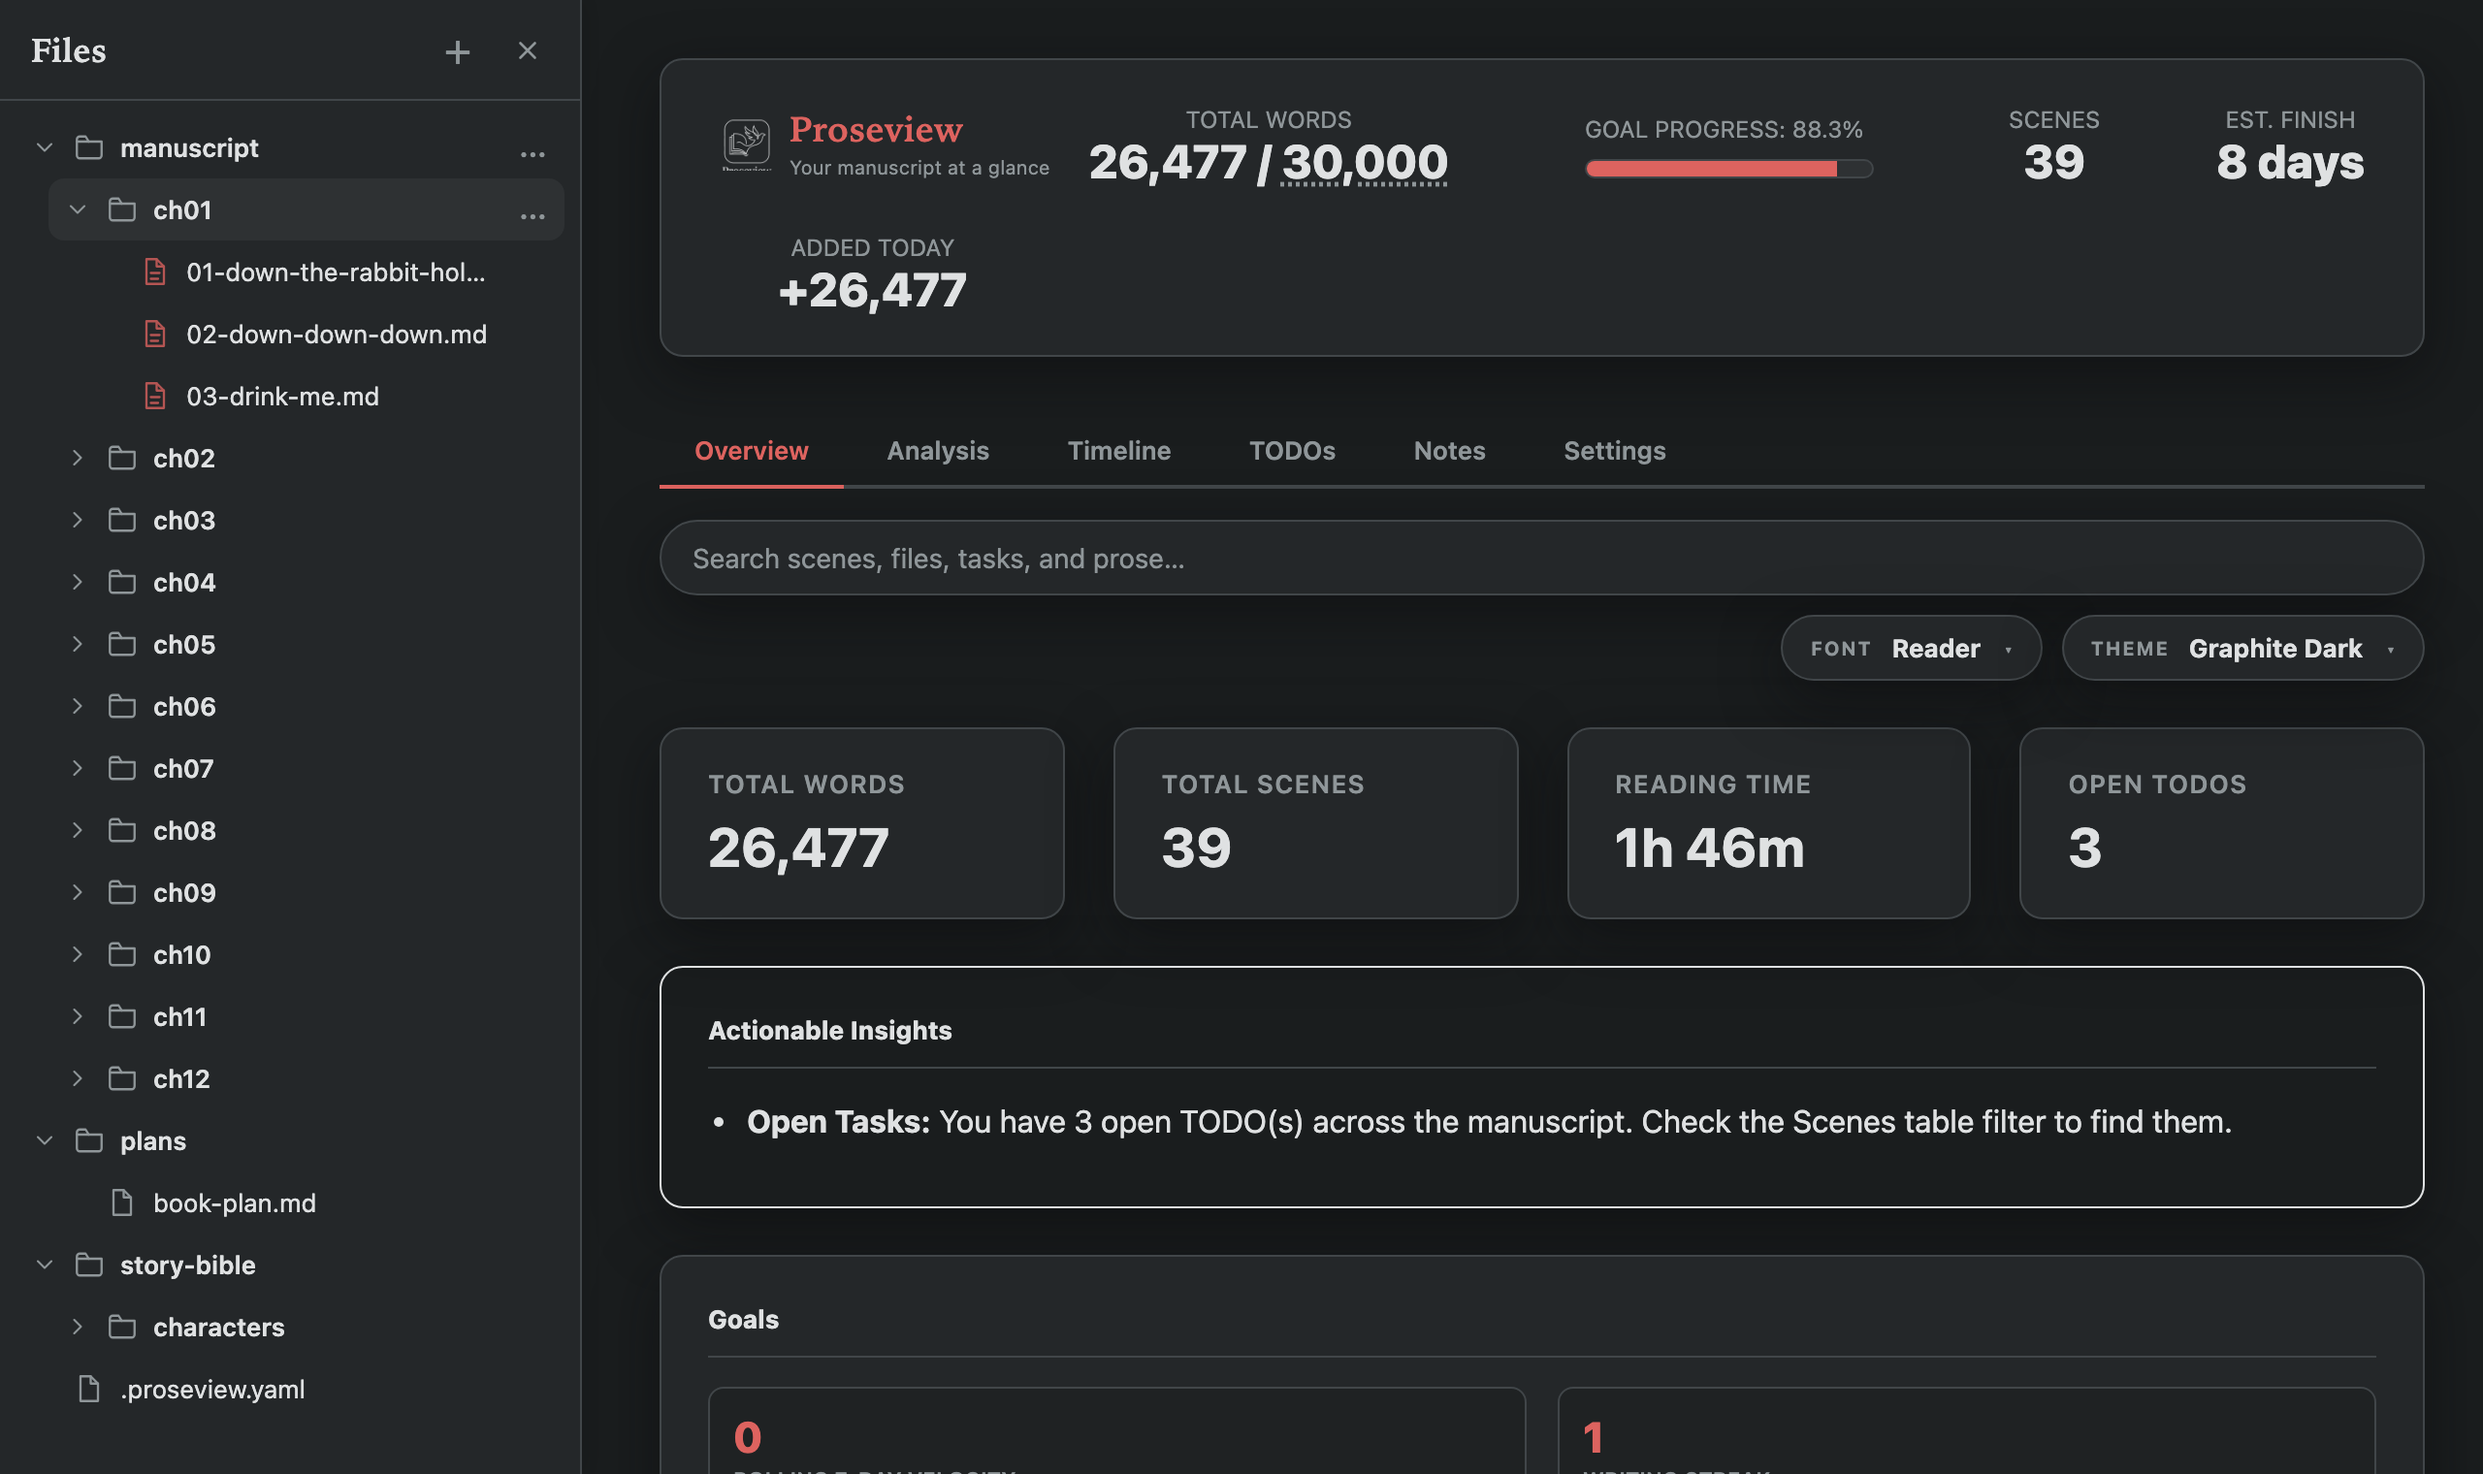
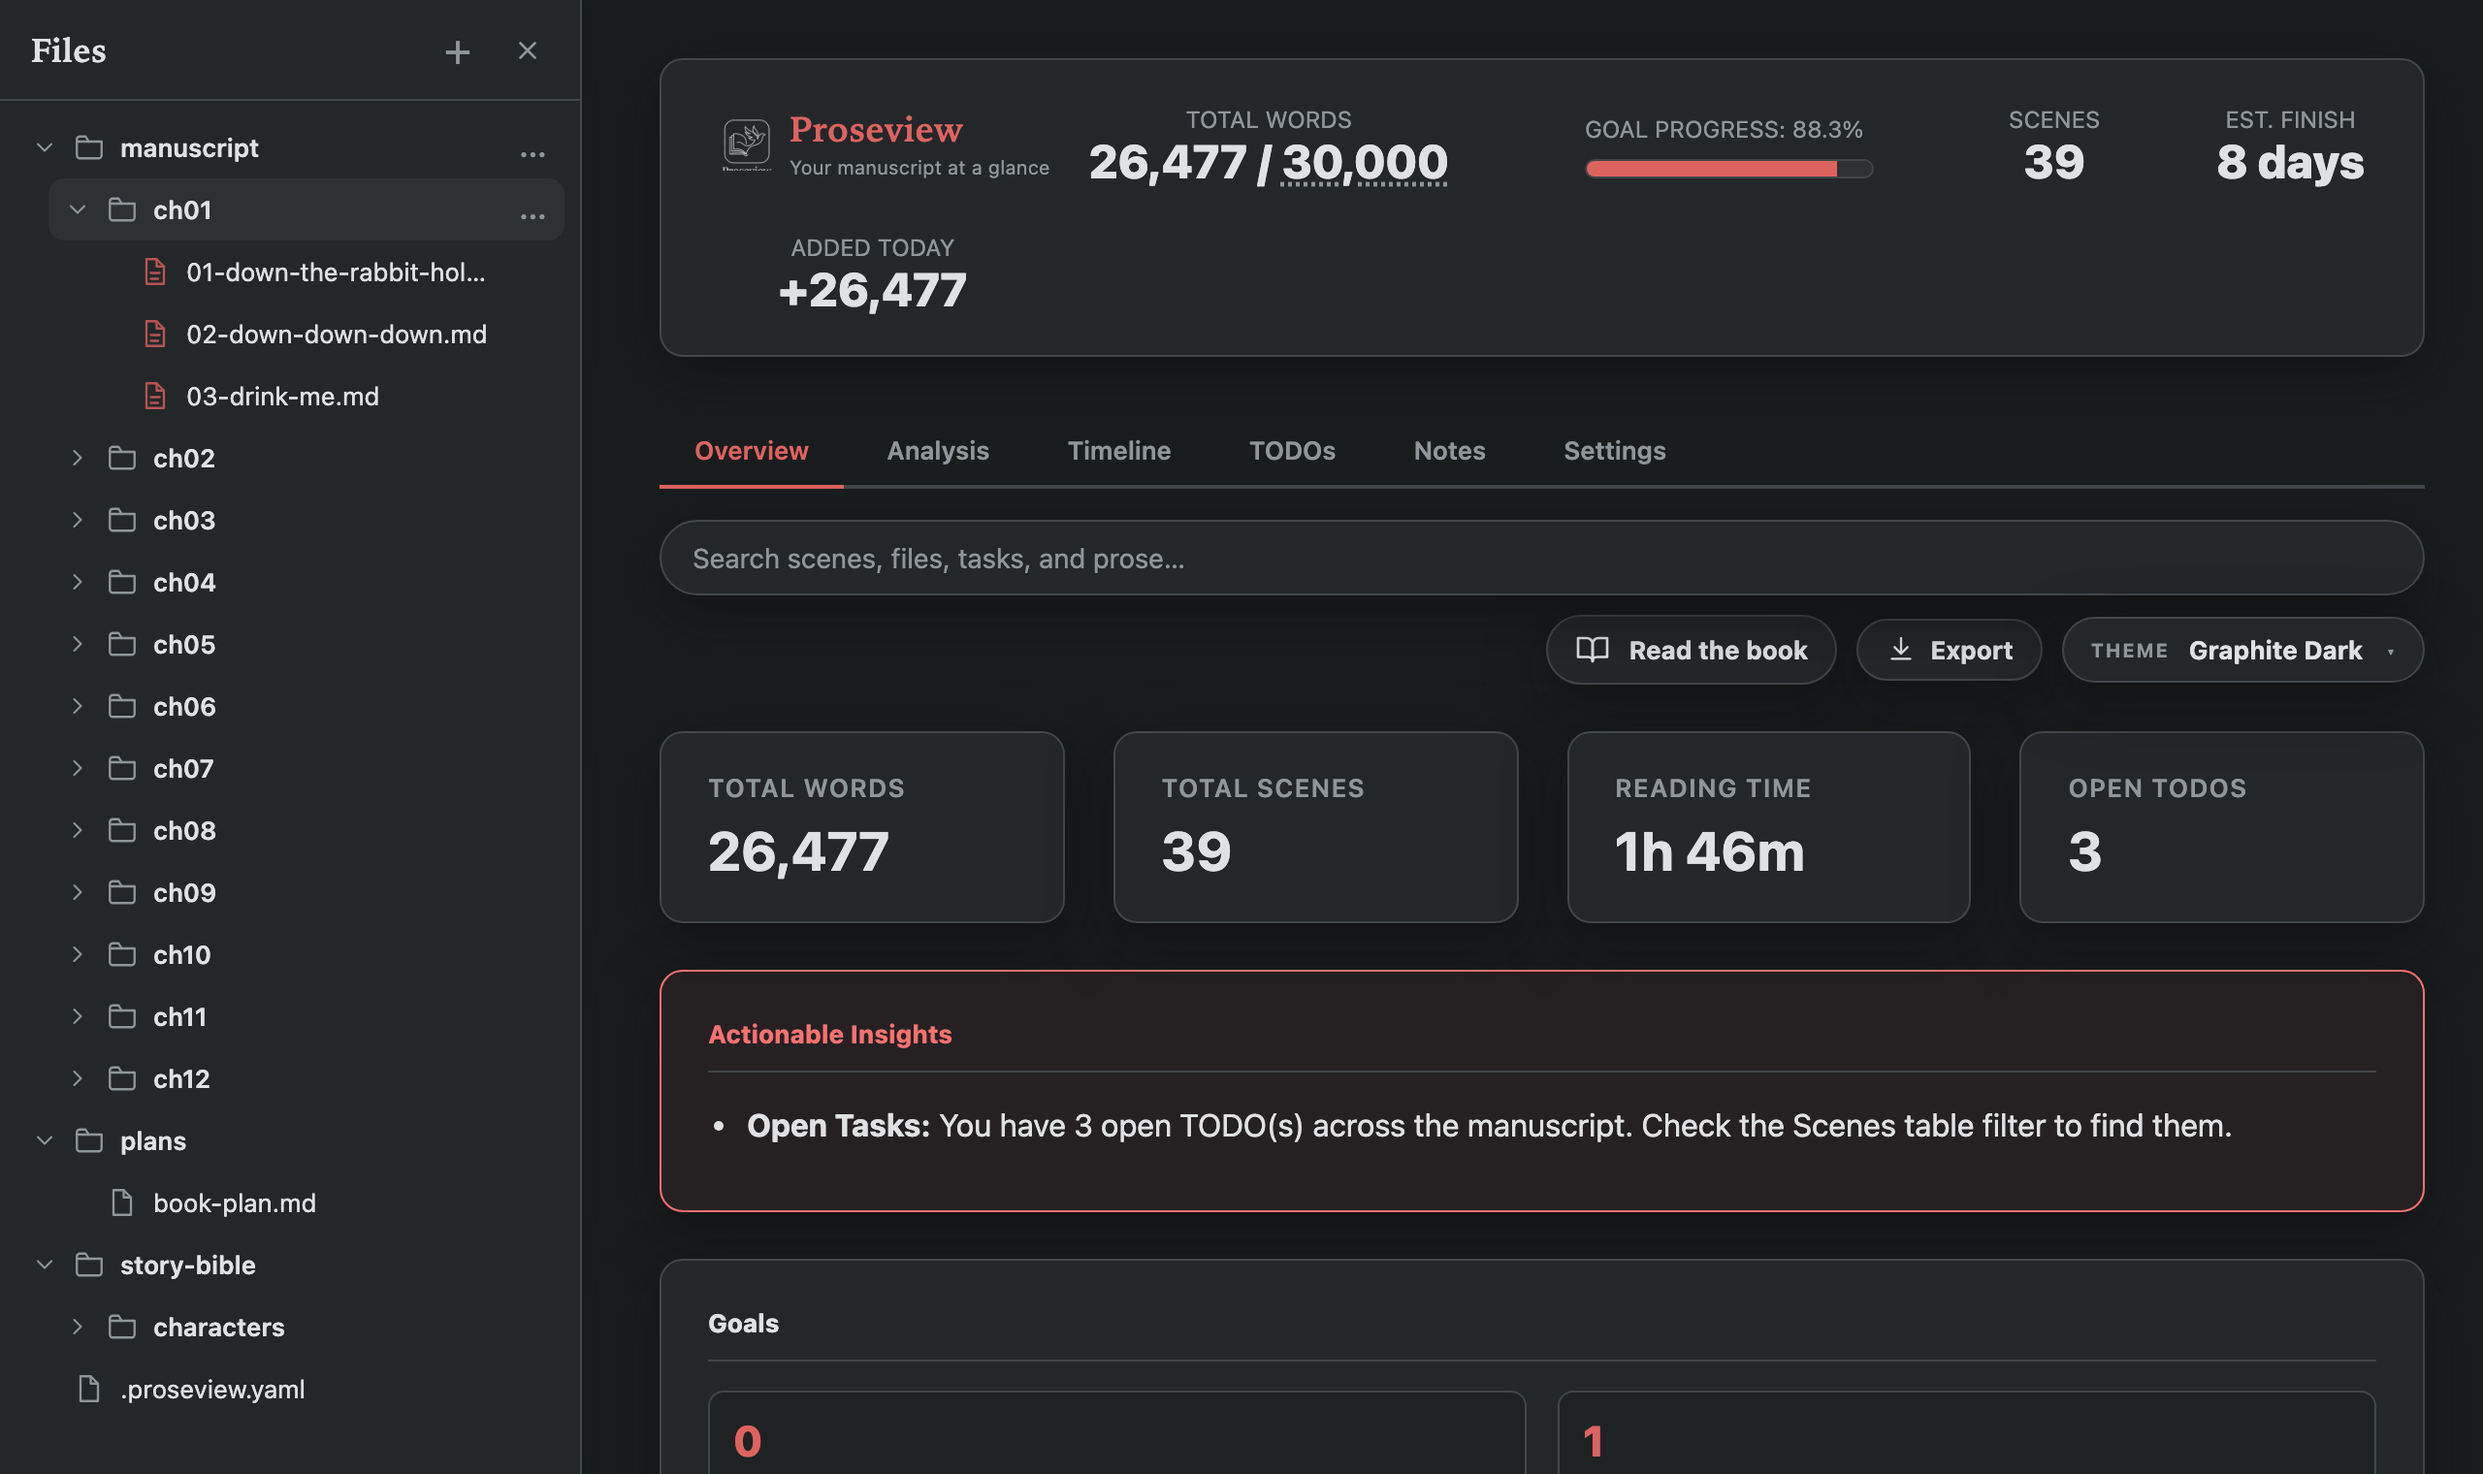
Bring the README and AI guide up to date, and re-record the README images

diff --git a/scripts/record_demo_clips.py b/scripts/record_demo_clips.py
@@ -348,7 +348,7 @@ def main(argv: list[str]) -> int:
 
 
 # ── Stills ──────────────────────────────────────────────────────────────────
-# The two PNGs in the README. Same demo book, same theme as the clips, so the
+# The PNGs in the README. Same demo book, same theme as the clips, so the
 # gallery reads as one product rather than three eras of it.
 
 def shot_dashboard(page, base, docs):
@@ -373,9 +373,18 @@ def shot_analytics(page, base, docs):
     page.wait_for_timeout(2600)
 
 
+def shot_book(page, base, docs):
+    # The intro note shows the first few times; a still should show the book.
+    page.add_init_script("localStorage.setItem('proseview-book-intro-seen','3')")
+    page.goto(f"{base}#/book", wait_until="load")
+    page.wait_for_function("() => document.documentElement.dataset.view === 'book'")
+    page.wait_for_timeout(1500)
+
+
 SHOTS = {
     "dashboard": shot_dashboard,
     "analytics": shot_analytics,
+    "read-the-book": shot_book,
 }
 
 

diff --git a/README.md b/README.md
@@ -8,19 +8,21 @@ analysis, edit a scene, and export the book as an EPUB or a PDF. Nothing to
 install, and your edits never leave the tab.
 
 Proseview turns a folder of Markdown scenes into a place to write the book:
-read and edit scenes and story-bible notes on a typeset page, check pacing,
-prose and character presence, ask Codex or Claude about the manuscript, and
-export it as an e-book or a print-ready PDF. Your files stay plain Markdown,
-and a save changes only what you edited.
+read and edit scenes and the rest of your Markdown files on a typeset page,
+read the whole book from start to finish, check pacing, prose and character
+presence, ask Codex or Claude about the manuscript, and export it as an
+e-book or a print-ready PDF. Your files stay plain Markdown, and a save
+changes only what you edited.
 
 Core analysis stays on your machine: no account, subscription, database, or
 telemetry. AI features are opt-in and run through agent CLIs you installed and
-logged into yourself — Codex or Claude in the side dock. When you use one,
-Proseview sends the active document by default, plus any selection or
-attachments, to that agent under its own login and data handling.
+logged into yourself — Codex or Claude in the side dock. When you ask one,
+Proseview sends your question, which file is open, and any selection or
+`@`mentioned paths to that agent, which reads what it needs from your project
+under its own login and data handling.
 
-Proseview reads plain `.md` files in whatever layout they already have, so it
-sits alongside Obsidian, Vim, or any other Markdown editor.
+Your files stay where they are, as plain `.md`, so Proseview sits alongside
+Obsidian, Vim, or any other Markdown editor.
 
 ```bash
 pipx install "proseview[claude]"
@@ -35,7 +37,7 @@ Leave off `[claude]` if you will not use the Claude tab. [Quick start →](#-qui
 ![platform](https://img.shields.io/badge/platform-macOS%20%7C%20Linux%20%7C%20Windows-lightgrey)
 ![license](https://img.shields.io/badge/license-MIT-green)
 
-![The Proseview dashboard with the file sidebar open on chapter one's scenes: total words against the goal, scene count, reading time, and a Goals panel with writing streak and per-chapter average](https://raw.githubusercontent.com/ourarash/proseview/main/docs/images/dashboard.png)
+![The Proseview dashboard with the file sidebar open on chapter one's scenes: total words against the goal, scene count, reading time, the Read the book and Export buttons, and a Goals panel with writing streak and per-chapter average](https://raw.githubusercontent.com/ourarash/proseview/main/docs/images/dashboard.png)
 
 ## ✨ What it does
 
@@ -45,9 +47,13 @@ Leave off `[claude]` if you will not use the Claude tab. [Quick start →](#-qui
   `Edit` toggled on. `Mod-S` saves and returns to reading; a conflict guard checks the file mtime
   so a change made in your own editor is never silently overwritten. A save
   rewrites only the paragraphs you changed.
-- 📝 **Editable notes.** Story bible, plans, and any other Markdown file in
-  the book get the same `Edit` and `Save`, with backups and the same
-  conflict guard. Notes with HTML inside their lines are edited as plain Markdown.
+- 📚 **Read the book.** The whole manuscript as one continuous text, the way
+  an e-reader shows it, with a progress bar, chapter list, scene and chapter
+  skips, and `Edit` beside each scene. It reopens where you stopped.
+- 📝 **Every Markdown file editable.** Story bible, plans, and any other
+  Markdown file in the book get the same `Edit` and `Save`, with backups and
+  the same conflict guard. Files with HTML inside their lines are edited as
+  plain Markdown.
 - 📁 **File browser.** Create empty Markdown files and folders, rename them
   inline, or move them to Proseview Trash from the row menu or right-click.
 - 🔎 **Repository search.** `Mod-K` from anywhere — paths, metadata, TODOs,
@@ -94,13 +100,17 @@ your machine, under your login: Codex and Claude, one tab each in the side
 dock, each with its own project conversation. Both run at once; switching tabs
 or opening another file never interrupts either one.
 
-Agent sessions are read-only. Reading needs no answer; a shell command that
-could change something stops at an approval you have to grant, and the
-agent's file edits come back for review after the turn, a change at a time.
-Raw model reasoning is never forwarded to the browser.
+They work as they do in the VS Code extensions. Each question says which file
+is open, plus your selection and any files you `@`mention, and the agent reads
+the rest of the project itself. Claude loads your own Claude settings
+(permission rules, `CLAUDE.md`, skills, MCP servers) and asks in the panel
+wherever the Claude Code extension would ask; Codex asks before a command that
+would change something. Raw model reasoning is never forwarded to the browser.
 
-Continuity and canon questions come back with citations, and suggested edits
-arrive as proposals you accept or reject before anything is written.
+An edit the agent makes is saved, and a small card after the turn shows the
+file and how many changes it made, with Expand view to see the diff, Undo all,
+and Looks good. Reading passes such as Quick critique make no edits, and
+continuity and canon questions come back with citations.
 
 Everything else works without an agent installed. For the Claude tab, install
 Proseview with its `claude` extra (`pipx install "proseview[claude]"`, or
@@ -135,11 +145,23 @@ callouts and embeds elsewhere in the file stay exactly as written.
 
 ![Typing a new closing line into a scene and saving it with Mod-S, with the word count updating](https://raw.githubusercontent.com/ourarash/proseview/main/docs/images/demo-writing.gif)
 
+### Read the book
+
+**Read the book** on the dashboard shows the whole manuscript as one
+continuous text, every scene in order under its chapter's heading. A quiet bar
+at the bottom shows how far through you are, skips by scene or chapter (the
+arrow keys do too) and opens a chapter list; `Aa` sets the text size, line
+width, font and theme. `Edit` beside a scene (or `E`) opens it in the editor,
+and leaving brings you back to the same place in the book.
+
+![Read the book: the opening of the demo manuscript as one continuous text, with the progress and chapter bar along the bottom](https://raw.githubusercontent.com/ourarash/proseview/main/docs/images/read-the-book.png)
+
 ### Agent tabs
 
 Codex and Claude each get a tab and a separate project conversation. Opening
-another file does not replace either conversation or silently send that file
-to the agent. Attach the current file when you want it included.
+another file does not replace either conversation; the next question simply
+tells the agent which file you are in now, and the agent reads it from the
+project. Type `@` to point at other files.
 
 ![The Codex and Claude tabs answering the same question about a scene in separate conversations, with each answer staying in its own tab](https://raw.githubusercontent.com/ourarash/proseview/main/docs/images/demo-agents.gif)
 
@@ -255,8 +277,9 @@ discuss:
 
 Proseview is alpha. Everything described above works today. Still unfinished:
 
-- 🚧 Skills on the Claude tab. Codex discovers them today; Claude's picker
-  is still empty.
+- 🚧 The `$` skill picker on the Claude tab. Claude uses your Claude skills
+  on its own, but the picker lists only Codex's today.
+- 🚧 Read the book does not yet update live when a scene changes on disk.
 
 See [plans/roadmap.md](plans/roadmap.md) for the full punch list.
 

diff --git a/docs/ai.md b/docs/ai.md
@@ -12,8 +12,10 @@ Three places where AI shows up, all opt-in:
    appears includes `Add TODO`, `Add Note`, and (if an agent is installed
    locally) `Ask about selection` and `Skills`. Skills are
    reusable prompts you keep in `.proseview/skills/<name>/SKILL.md`; they show up
-   automatically in the menu. Skills are discovered by Codex today — the
-   Claude tab's picker is still empty.
+   automatically in the menu. In the question box, `$` picks one of the
+   skills Codex offers for the project; on the Claude tab that picker is
+   still empty, though Claude uses the skills in your Claude settings on its
+   own.
 2. **Discuss, on either agent.** The side dock has a **Codex** tab and a
    **Claude** tab. Each has a separate project conversation, with its own queue,
    history, and approvals — ask one, switch agents or open another file, and
@@ -21,16 +23,20 @@ Three places where AI shows up, all opt-in:
    are always there, and one that cannot start explains why rather than
    disappearing.
 
-   Ordinary questions start without any file contents attached. Choose
-   **Attach current** to include the file on screen, or press `@` to attach
-   other files and folders. An attached current-file chip stays on that file
-   when you navigate, until you remove it; navigation alone never changes what
-   is sent. Selecting prose explicitly attaches that selection to its source
-   scene, and selection tasks and their follow-ups stay anchored there.
+   Every question tells the agent where you are, the way the editor
+   extensions do: which file is open, and your selection if it is in the
+   panel. A quiet line at the top of the panel names that file. The agent
+   reads the file from the project when it needs to; the text itself goes
+   along only when it has unsaved edits, which are not on disk to be read.
+   Press `@` to mention other files and folders: they stay in the question as
+   `@path` chips and send the path, not the file. Selection tasks and their
+   follow-ups stay anchored to the passage you selected.
    Reading needs no answer. A command that would write, reach the network,
    or type into a command already running waits on an approval you can see.
-   File edits are kept for review after the turn, and a reading pass
-   declines them.
+   An edit is saved as it is made. After the turn a compact card shows the
+   file and "N changes · saved", with **Expand view** for the diff side by
+   side, **Undo all**, and **Looks good**; the card goes away when you send
+   the next question. A reading pass makes no edits.
 
    A status strip between the conversation and the composer says what the
    agent is doing: starting, working (with the current step and a running
